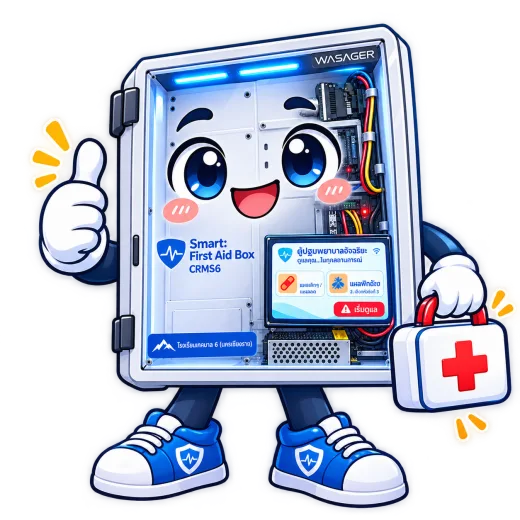
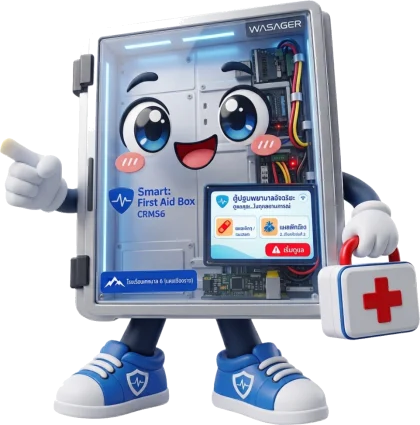
feat(kiosk): มาสคอตกับสโลแกนบนหน้าแรกจริงของตู้
Bank ส่งภาพใหม่มาและขอให้ย้ายข้อความในภาพไปอยู่ขวาของมาสคอต โดยห้ามกลับด้านตัวมาสคอต
⇒ ตัดภาพเดียวออกเป็นสองไฟล์ที่เส้นช่องว่างกว้างสุดในภาพ แล้วเรียงใหม่ ไม่ได้ flip อะไรเลย

ย้ายจาก view-start มาไว้ที่ view-welcome ด้วย เพราะ WP3 แทรกหน้าสแกนบัตรเข้ามาก่อน
หน้าแรกจริงจึงเปลี่ยนไปแล้ว มาสคอตเดิมไปโผล่หลังสแกนบัตรซึ่งไม่ใช่ที่ Bank ขอ
เห็นได้จากการแคปจอตู้จริงเท่านั้น อ่านจากโค้ดไม่เห็น

รอบแรกพื้นขาวติดมาเป็นกล่องสี่เหลี่ยมบนพื้นหน้า แก้ด้วยการไล่ความโปร่งจากขอบภาพเข้ามา
ไม่ใช่ลบสีขาวทั้งภาพ เพราะถุงมือ รองเท้า และไฟในตู้ก็ขาว ถ้าลบทั้งหมดจะทะลุ

ที่ไม่พอให้สโลแกนหลบก่อน แล้วค่อยถึงมาสคอต ปุ่มกับข้อความสำคัญกว่าทั้งคู่

ยืนยันด้วยภาพจากจอตู้จริงผ่าน grim ทุกครั้ง ไม่ใช่ render จำลอง Bank เคาะผ่านแล้ว
Agent: Khai
Model: claude-opus-5
Effort: xhigh

diff --git a/kiosk/index.html b/kiosk/index.html
@@ -78,9 +78,21 @@
 
     <main class="kiosk-main">
         <section class="view" id="view-welcome" aria-label="เริ่มใช้งาน">
+            <div class="welcome-copy">
             <h1 class="view-title">ตู้ปฐมพยาบาลอัจฉริยะ</h1>
             <p class="view-lead">เตรียมบัตรนักเรียนที่มี QR ก่อนเริ่ม</p>
             <button class="btn btn-primary btn-major" type="button" data-action="scan-card">กดเพื่อเริ่มใช้งาน</button>
+            </div>
+            <!-- มาสคอตกับสโลแกน ตัดแยกจากภาพเดียวกันที่ Bank ส่งมา (2026-09-14)
+                 ในภาพต้นฉบับข้อความอยู่ซ้ายของมาสคอต Bank ขอให้สลับมาอยู่ขวา
+                 และห้ามกลับด้านตัวมาสคอต จึงตัดเป็นสองไฟล์แล้วเรียงใหม่ ไม่ได้ flip
+                 ทั้งคู่เป็นของตกแต่ง จึงเป็น aria-hidden และหลบเองเมื่อที่ไม่พอ -->
+            <div class="welcome-art" aria-hidden="true">
+                <img class="welcome-mascot" src="../images/mascot.webp" alt=""
+                     width="420" height="425" decoding="async">
+                <img class="welcome-tagline" src="../images/tagline.webp" alt=""
+                     width="420" height="282" decoding="async">
+            </div>
         </section>
         <section class="view" id="view-card" aria-label="สแกนบัตรนักเรียน" hidden>
             <h1 class="view-title">สแกน QR บนบัตรนักเรียน</h1>
@@ -102,10 +114,6 @@
                     <h1 class="view-title">เจ็บตรงไหน แตะเลือกได้เลย</h1>
                     <p class="view-lead">ถ้าอาการรุนแรงหรือไม่แน่ใจ ให้กดปุ่มเรียกครูทางขวาล่าง</p>
                 </div>
-                <!-- มาสคอตของตู้ — ที่ว่างทางขวาของหน้าแรกเคยโล่ง (Bank 2026-09-14)
-                     ตกแต่งล้วน จึงเป็น aria-hidden และต้องไม่กินที่ของปุ่มเมื่อจอแคบ -->
-                <img class="start-mascot" src="../images/mascot.webp" alt="" aria-hidden="true"
-                     width="520" height="520" decoding="async">
             </div>
             <div class="start-grid">
                 <button class="start-card start-card-primary" type="button" data-action="go-scan">

diff --git a/css/kiosk.css b/css/kiosk.css
@@ -1003,16 +1003,48 @@ img {
 
 #student-greeting { max-height: 130px; overflow: auto; overflow-wrap: anywhere; }
 
-/* มาสคอตบนหน้าแรกของตู้ — ที่ว่างทางขวาเคยโล่ง (Bank 2026-09-14)
- * ตกแต่งล้วน จึงต้องยอมหายไปก่อนใครเมื่อที่ไม่พอ ไม่ใช่ไปเบียดหัวเรื่องหรือปุ่ม */
-.start-mascot {
+/* หน้าแรกของตู้: ข้อความซ้าย มาสคอตขวา
+ *
+ * ก่อน WP3 หน้าแรกคือ #view-start ผมจึงวางมาสคอตไว้ที่นั่น · WP3 แทรกหน้าสแกนบัตรมาก่อน
+ * หน้าแรกจริงจึงกลายเป็น #view-welcome และมาสคอตไปโผล่หลังสแกนบัตรแทน ซึ่งไม่ใช่ที่ Bank ขอ
+ * (เห็นจากภาพหน้าจอตู้จริงที่แคปมาดู 2026-09-14) ⇒ ย้ายมาที่นี่
+ *
+ * มาสคอตเป็นของตกแต่งล้วน ⇒ ต้องยอมหายไปก่อนใครเมื่อที่ไม่พอ ไม่ใช่ไปเบียดปุ่ม */
+#view-welcome {
+    flex-direction: row;
+    align-items: center;
+    justify-content: space-between;
+}
+.welcome-copy {
+    display: flex;
+    flex: 1 1 auto;
+    min-width: 0;
+    flex-direction: column;
+    align-items: flex-start;
+    gap: var(--gap);
+}
+/* มาสคอตก่อน สโลแกนตามหลังทางขวา — สลับจากภาพต้นฉบับโดยไม่กลับด้านตัวมาสคอต */
+.welcome-art {
+    display: flex;
     flex: 0 1 auto;
-    width: clamp(96px, 22vw, 190px);
+    min-width: 0;
+    align-items: center;
+    gap: 4px;
+}
+.welcome-mascot,
+.welcome-tagline {
     height: auto;
-    align-self: center;
+    max-height: 62vh;
     object-fit: contain;
     pointer-events: none;
 }
-@media (max-height: 430px) {
-    .start-mascot { display: none; }
+.welcome-mascot { flex: 0 1 auto; width: clamp(120px, 26vw, 250px); }
+.welcome-tagline { flex: 0 1 auto; width: clamp(110px, 24vw, 230px); }
+
+/* ที่ไม่พอ: สโลแกนหลบก่อน แล้วค่อยถึงมาสคอต — ปุ่มกับข้อความสำคัญกว่าทั้งคู่ */
+@media (max-width: 720px) {
+    .welcome-tagline { display: none; }
+}
+@media (max-height: 380px), (max-width: 560px) {
+    .welcome-art { display: none; }
 }
